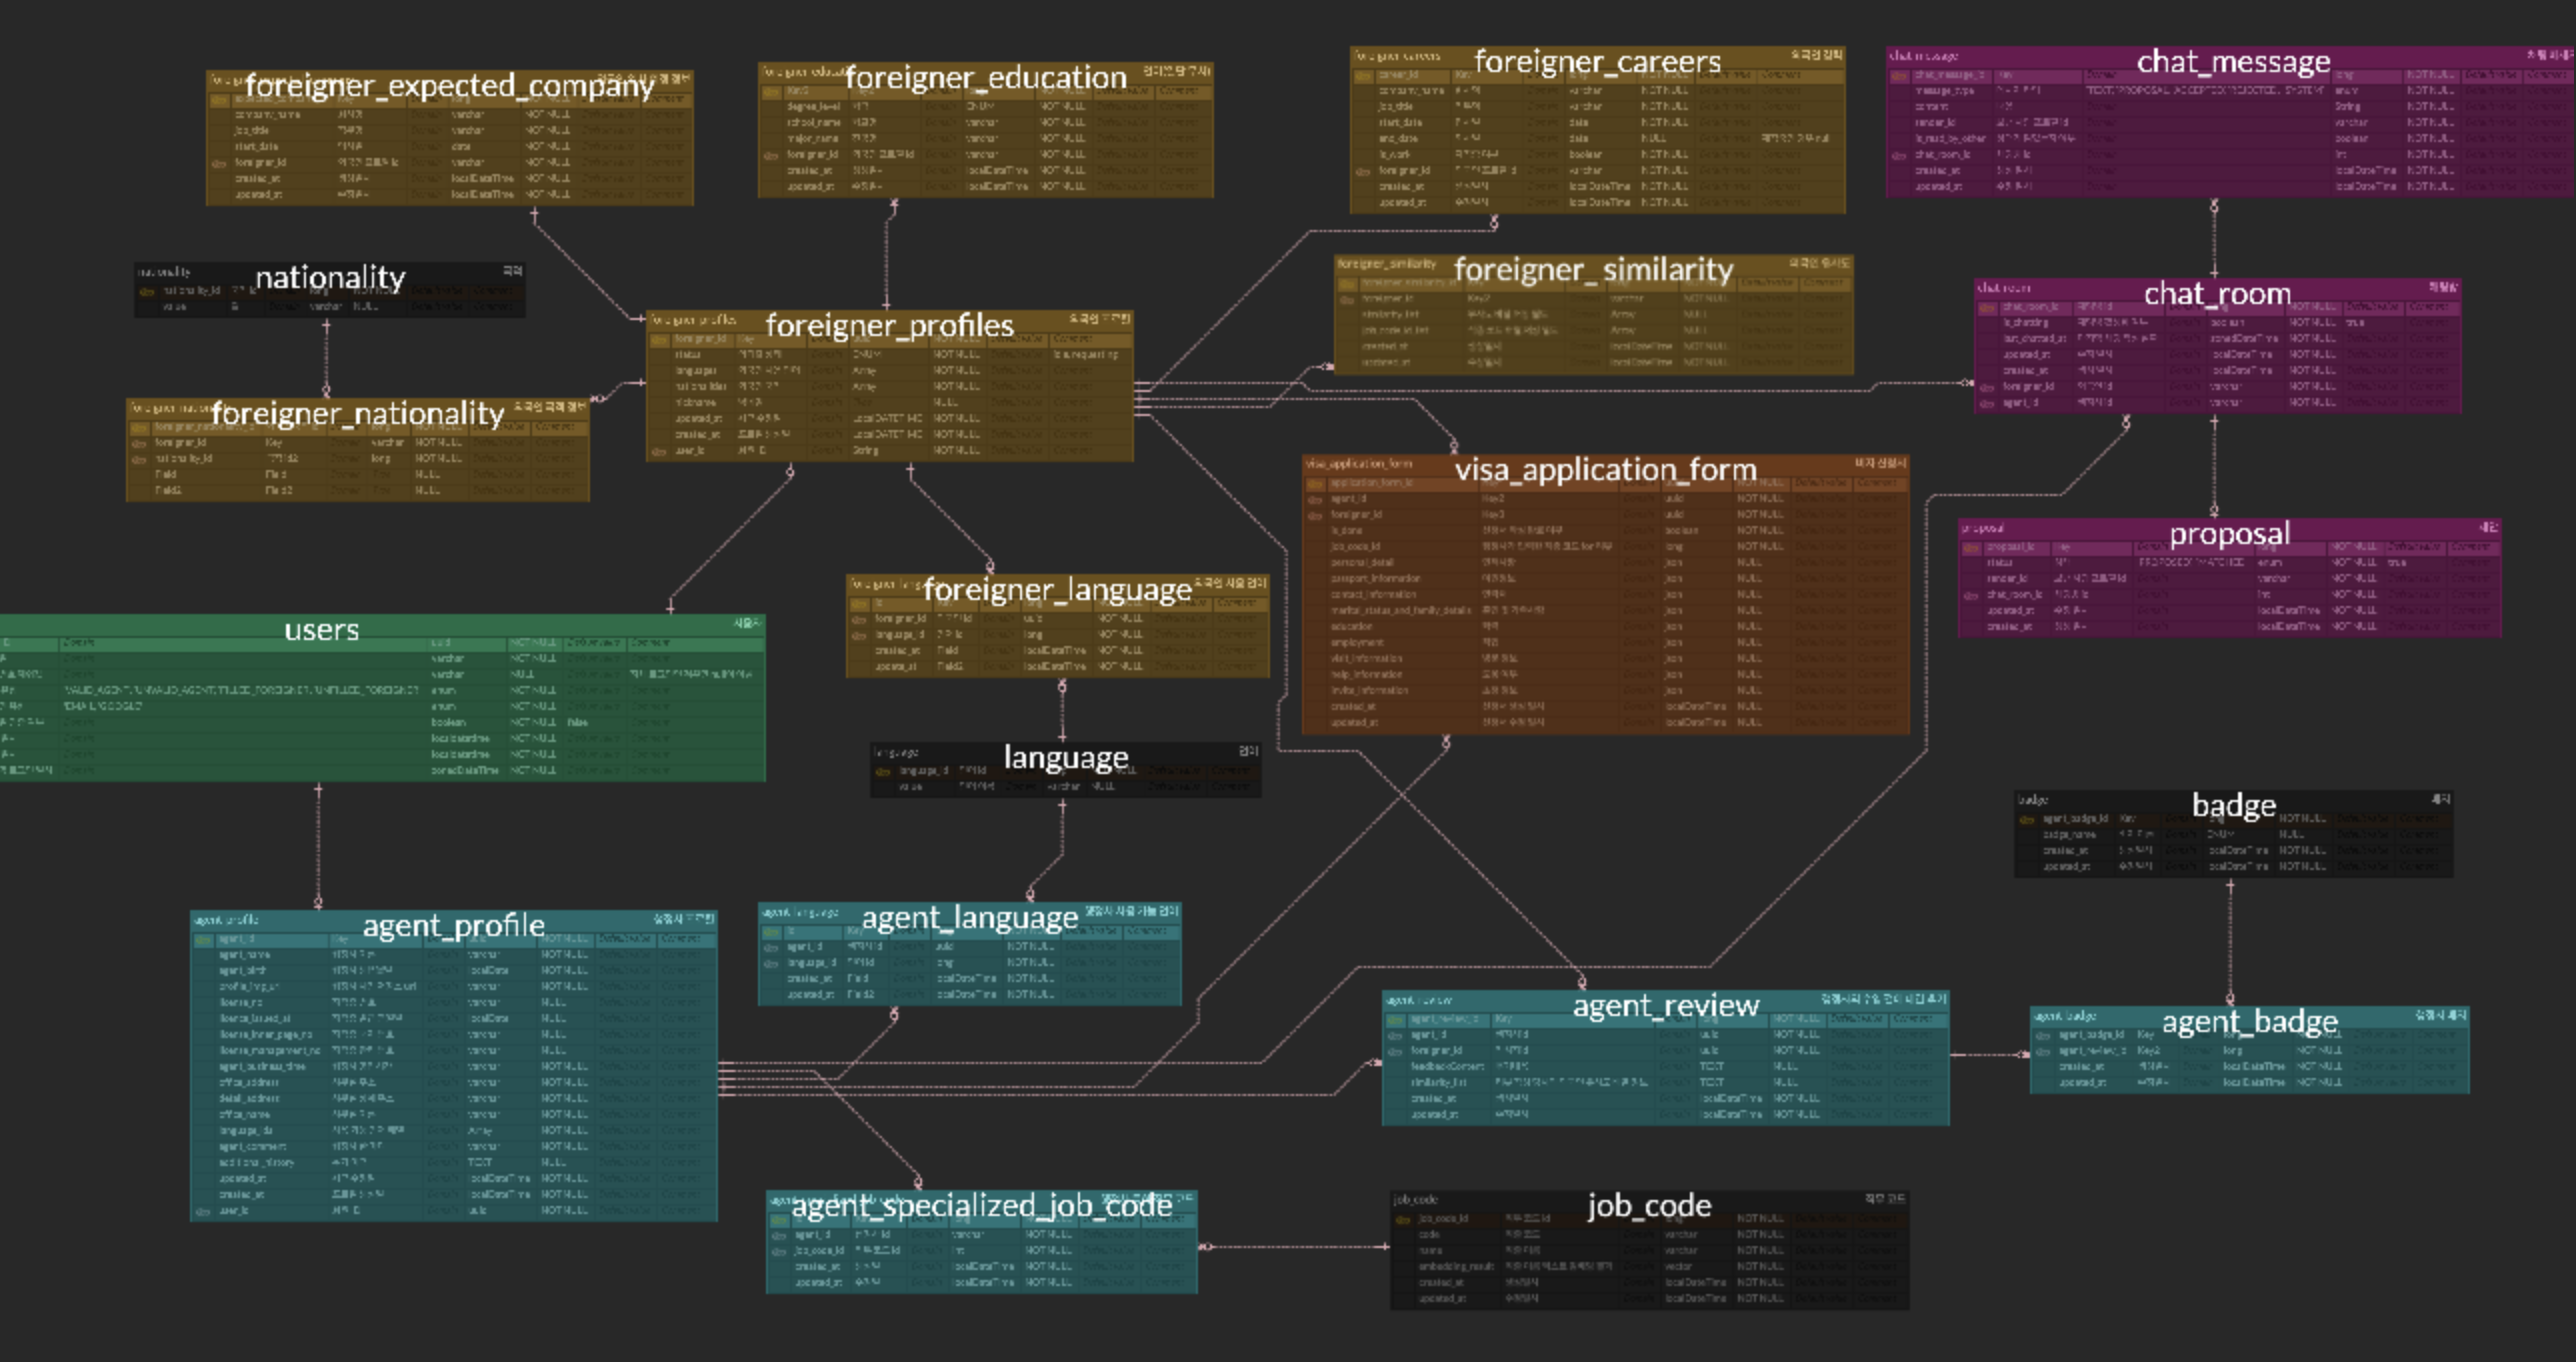
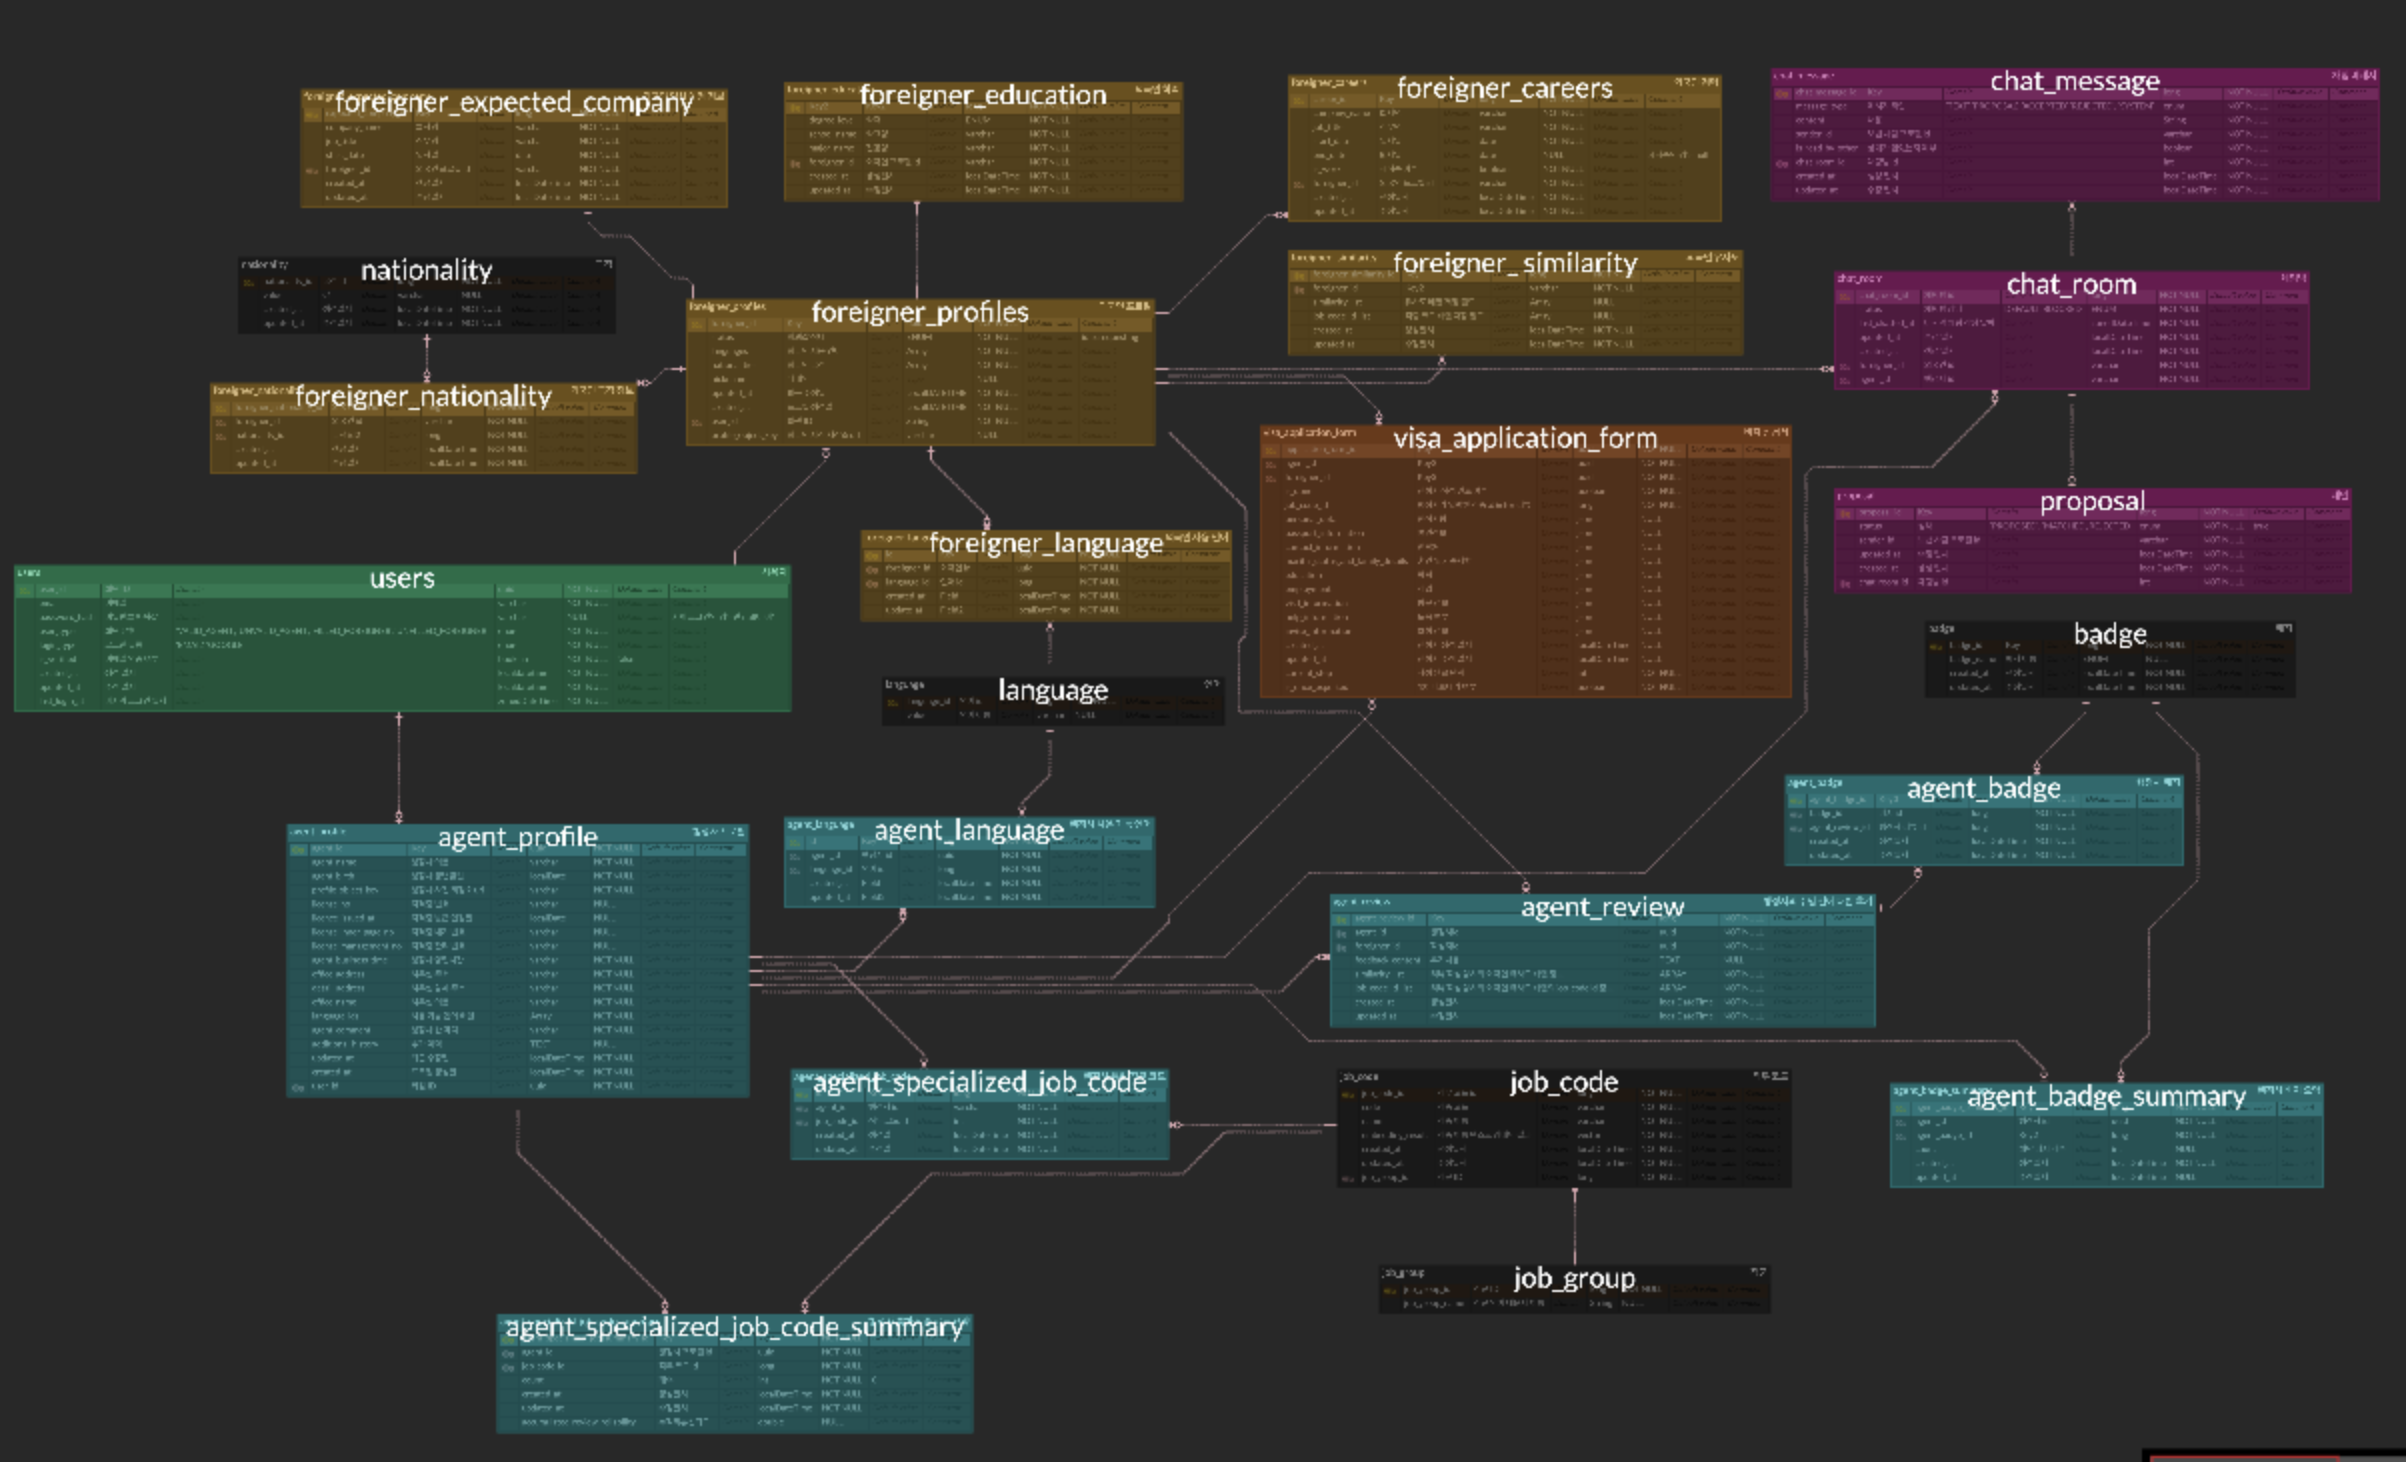
docs: erd 이미지 오류 수정 및 기획 디자인 링크 수정 (#174)

diff --git a/README.md b/README.md
@@ -108,14 +108,18 @@ IT 기술로 그 길을 밝히는 내비게이터 역할을 하고자 합니다.
 
 
 
-# 🎨 기획&디자인 링크
+# 🎨 기획 및 디자인
 > **사용자 경험을 최우선으로 생각하는 Navisa의 설계 기반입니다.**
 
 * **📐 기획**
-    * [🔗 기획 산출물 바로가기 [figma]](https://www.figma.com/design/AEMfiNWZUpZlpnAsM4ojmz/%EA%B8%B0%ED%9A%8D%EC%9D%98-%EB%B0%A9?node-id=604-3271&t=uuS4FtztboyvOutp-1) <br>
+    * [🔗 기획 산출물 바로가기 (figma)](https://www.figma.com/design/AEMfiNWZUpZlpnAsM4ojmz/%EA%B8%B0%ED%9A%8D%EC%9D%98-%EB%B0%A9?node-id=604-3271&t=uuS4FtztboyvOutp-1) 
+  
 <br>
+  
 * **✨ 디자인**
-    * [🔗 디자인 산출물 바로가기 [figma]](https://www.figma.com/design/YHUKhgeoJpBeixaJUsV59V/%EB%94%94%EC%9E%90%EC%9D%B8%EC%9D%98-%EB%B0%A92?node-id=170-53&t=g8Wtm39Triwe2q70-1) <br>
+    * [🔗 디자인 산출물 바로가기 (figma)](https://www.figma.com/design/YHUKhgeoJpBeixaJUsV59V/%EB%94%94%EC%9E%90%EC%9D%B8%EC%9D%98-%EB%B0%A92?node-id=170-53&t=g8Wtm39Triwe2q70-1)
+  
+
 
 
 <br>
@@ -124,7 +128,7 @@ IT 기술로 그 길을 밝히는 내비게이터 역할을 하고자 합니다.
 # 📑 ERD 설계도
 [🔗 Navisa ERD 바로가기](https://www.erdcloud.com/d/NiGGRPFFeqLzc8sLn)
 
-![navisa_erd.png](navisa_ERD.png)
+![navisa_erd.png](navisa_erd.png)
 
 
 

diff --git a/BE/README.md b/BE/README.md
@@ -34,7 +34,7 @@
 ## 📑 ERD 설계도
 [🔗 Navisa ERD 바로가기](https://www.erdcloud.com/d/NiGGRPFFeqLzc8sLn)
 
-![navisa_erd.png](../navisa_ERD.png)
+![navisa_erd.png](../navisa_erd.png)
 
 
 <br>
